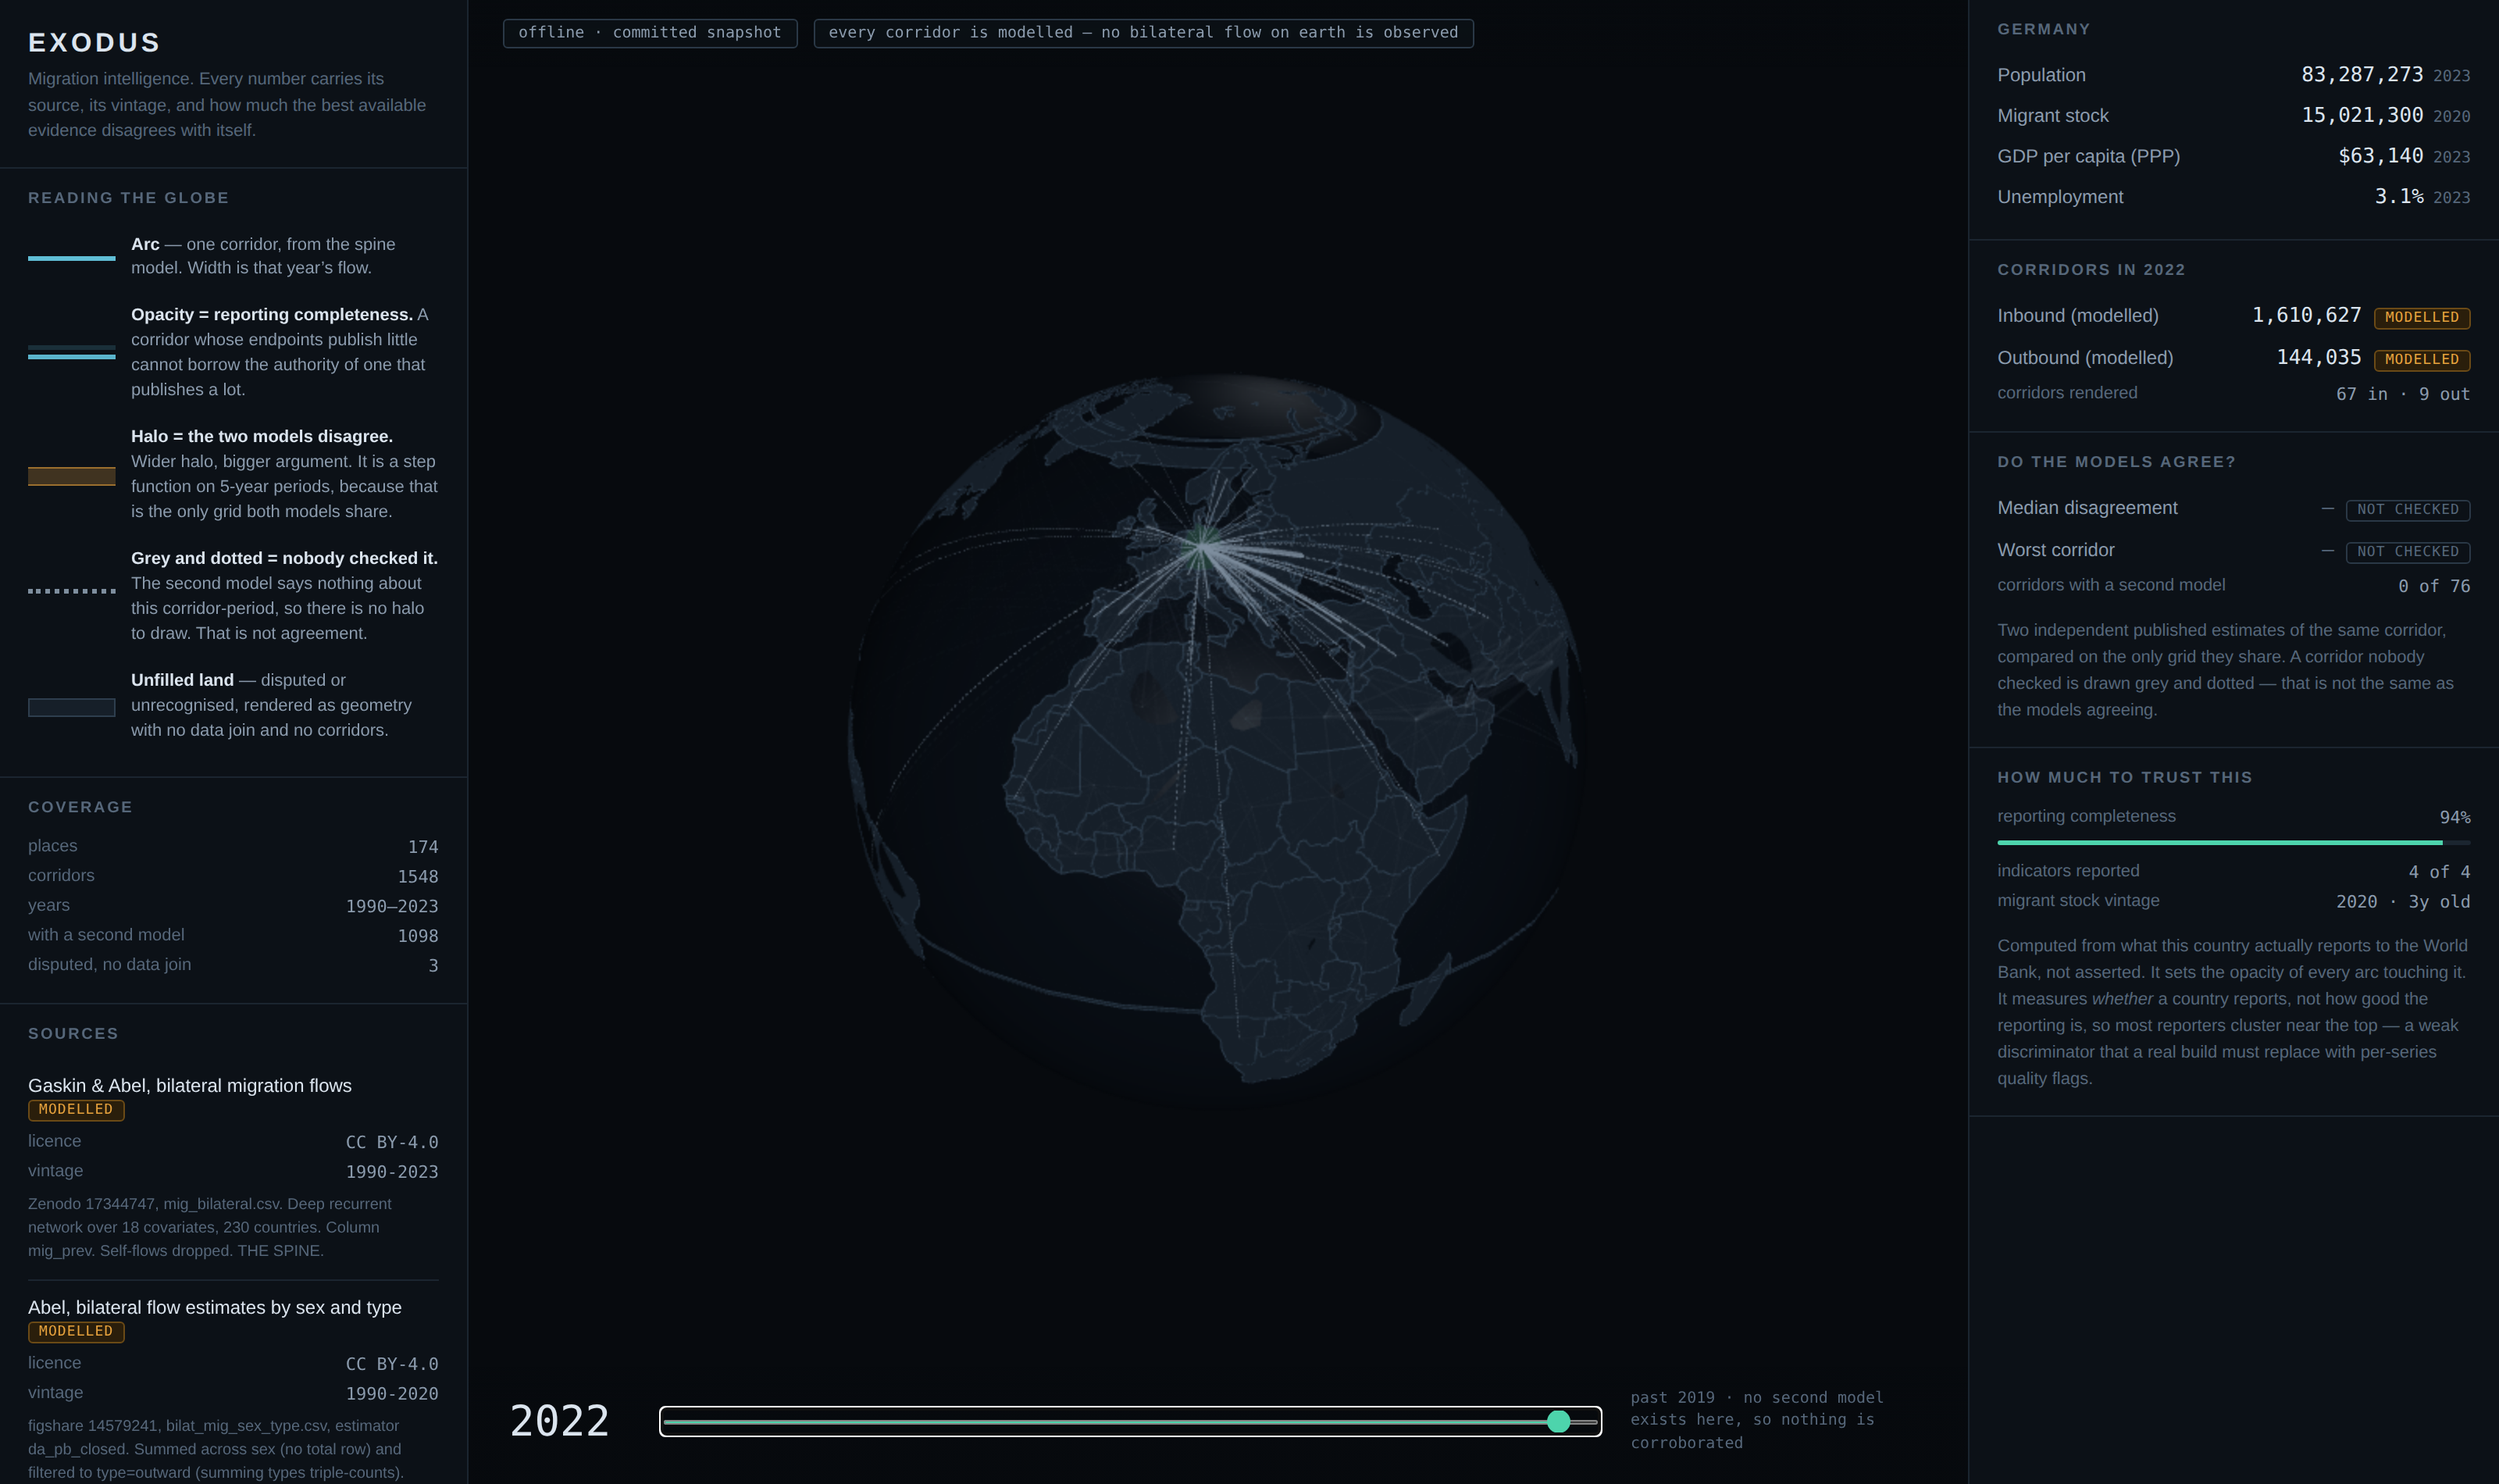
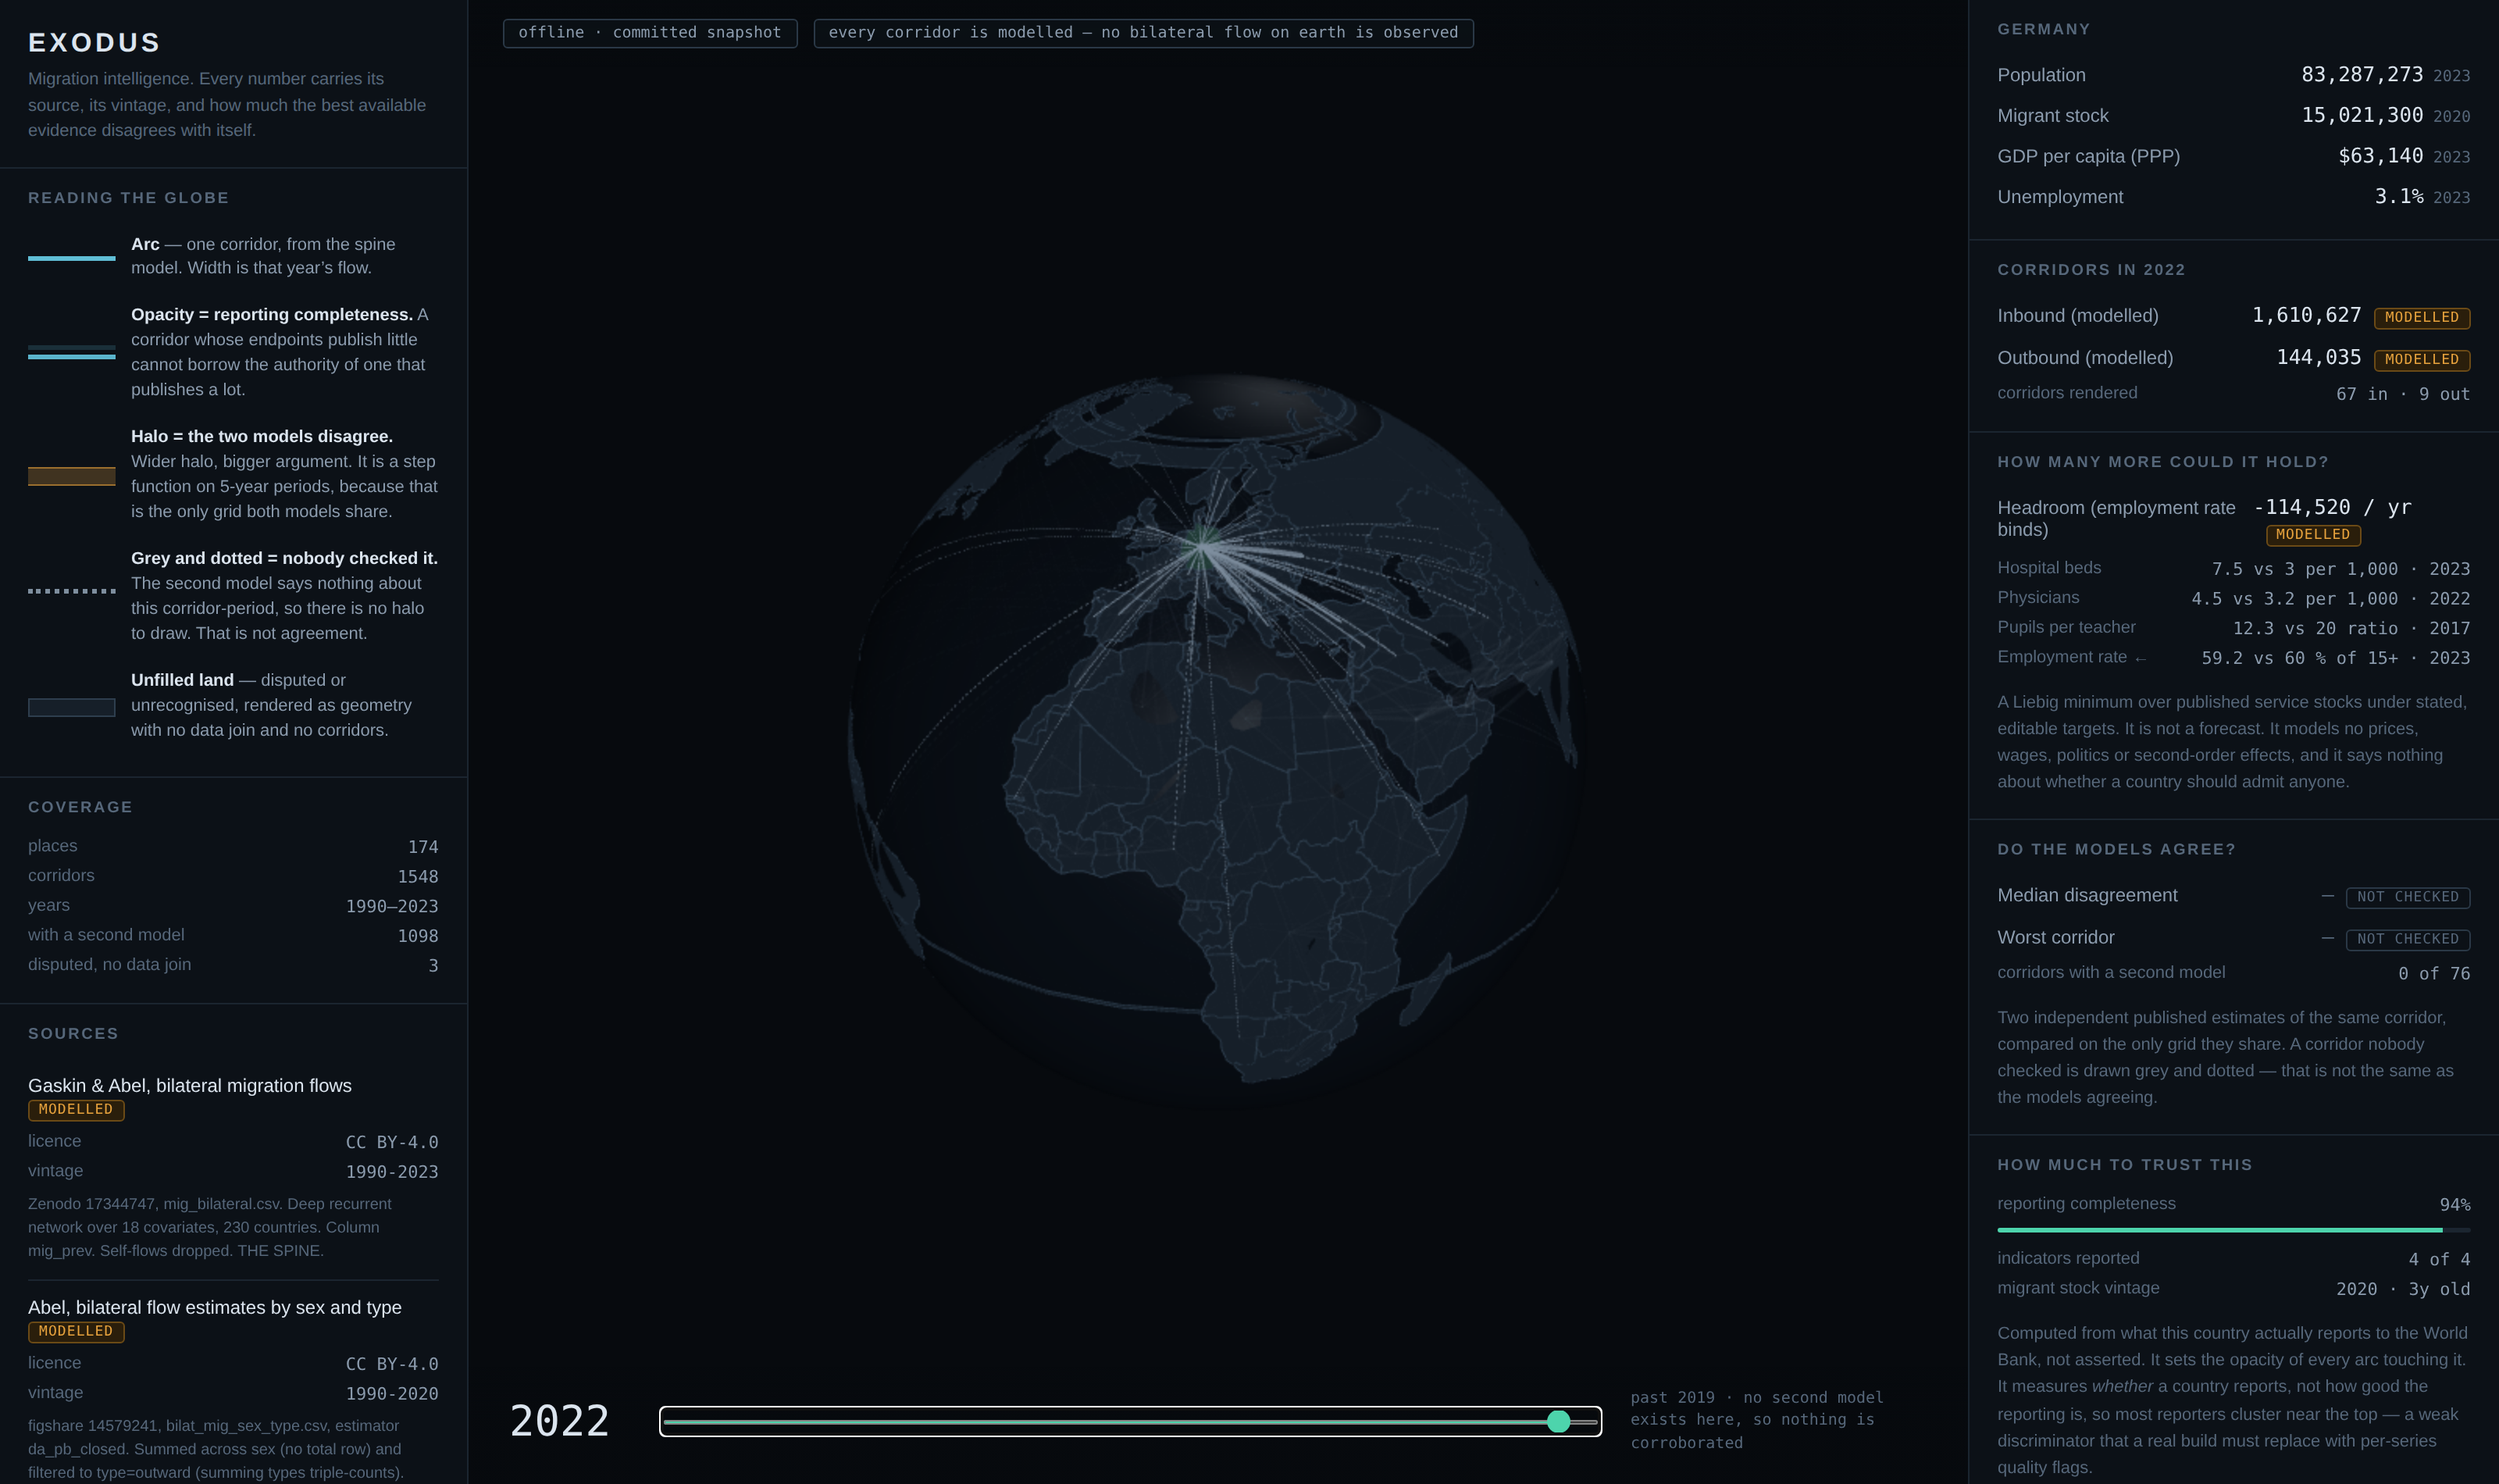
M3: service-stock headroom — the 'how many could it hold' model, on real data
Answers the original question without printing the single number that would be a
lie. A Liebig minimum over four published service stocks, always naming the
binding constraint, never collapsing to a scalar, and refusing outright when
fewer than three stocks are published rather than imputing the rest.

Stocks are real World Bank series, each carrying its own observation year:
hospital beds, physicians, pupil-teacher ratio and employment rate. For Germany
the binding constraint is the labour market at 59.2 percent against a 60 percent
target, not health or schooling, where it has large surpluses. The result is
negative, and a negative renders as the existing deficit it is rather than being
clamped to zero.

Five tests: refusal below three stocks, the binding indicator is always named,
a deficit stays negative, the minimum is taken rather than the mean, and every
stock used carries its year.

Claude-Session: https://claude.ai/code/session_01RBxFtqXgAfSVz9oKvnaHgw

Changed region(s): [[0.7812, 0.3105, 1.0, 0.7453], [0.8125, 0.8074, 1.0, 0.9937]]

diff --git a/apps/web/src/kernel/headroom.ts b/apps/web/src/kernel/headroom.ts
@@ -1,0 +1,96 @@
+/** "How much workforce can a country hold?"
+ *
+ *  There is no single number, and a product that prints one is lying. This returns a Liebig
+ *  minimum over service stocks, ALWAYS naming the binding constraint, never collapsing to a
+ *  scalar, and returning a typed refusal when the stocks are not published.
+ *
+ *  A negative value is a service deficit that already exists — not spare capacity.
+ */
+import type { Place } from '../types';
+
+export const HEADROOM_INDICATORS = ['housing_proxy', 'schooling', 'primary_care', 'labour'] as const;
+export type HeadroomIndicator = (typeof HEADROOM_INDICATORS)[number];
+
+export interface Assumption {
+  readonly id: HeadroomIndicator;
+  readonly label: string;
+  readonly unit: string;
+  /** The stock level the country is being held to. Editable: this is a policy choice. */
+  readonly target: number;
+  readonly horizonYears: number;
+  readonly source: string;
+  /** true when a HIGHER observed value means MORE capacity. */
+  readonly higherIsBetter: boolean;
+}
+
+export const DEFAULT_ASSUMPTIONS: readonly Assumption[] = [
+  { id: 'primary_care',  label: 'Hospital beds',   unit: 'per 1,000', target: 3.0,  horizonYears: 10, source: 'World Bank SH.MED.BEDS.ZS; target ≈ EU median', higherIsBetter: true },
+  { id: 'housing_proxy', label: 'Physicians',      unit: 'per 1,000', target: 3.2,  horizonYears: 10, source: 'World Bank SH.MED.PHYS.ZS; target ≈ EU median', higherIsBetter: true },
+  { id: 'schooling',     label: 'Pupils per teacher', unit: 'ratio',  target: 20,   horizonYears: 10, source: 'World Bank SE.PRM.ENRL.TC.ZS; target = UNESCO guideline', higherIsBetter: false },
+  { id: 'labour',        label: 'Employment rate', unit: '% of 15+',  target: 60,   horizonYears: 10, source: 'World Bank SL.EMP.TOTL.SP.ZS; target ≈ OECD median', higherIsBetter: true },
+];
+
+export interface IndicatorRow {
+  readonly id: HeadroomIndicator;
+  readonly label: string;
+  readonly observed: number | null;
+  readonly observedYear: number | null;
+  readonly target: number;
+  readonly unit: string;
+  /** Persons PER YEAR. Negative means the country is already below its own target. */
+  readonly headroomPersonsPerYear: number | null;
+  readonly source: string;
+}
+
+export type HeadroomResult =
+  | { kind: 'ok'; bindingIndicator: HeadroomIndicator; bindingLabel: string;
+      headroomPersonsPerYear: number; perIndicator: IndicatorRow[]; caveat: string }
+  | { kind: 'refusal'; code: 'NoServiceStockData'; reason: string; perIndicator: IndicatorRow[] };
+
+function rowFor(a: Assumption, place: Place): IndicatorRow {
+  const pick = (): [number | null, number | null] => {
+    switch (a.id) {
+      case 'primary_care':  return [place.beds ?? null, place.bedsYear ?? null];
+      case 'housing_proxy': return [place.phys ?? null, place.physYear ?? null];
+      case 'schooling':     return [place.ptr ?? null, place.ptrYear ?? null];
+      case 'labour':        return [place.emp ?? null, place.empYear ?? null];
+    }
+  };
+  const [observed, observedYear] = pick();
+  let h: number | null = null;
+  if (observed != null && place.pop != null && place.pop > 0) {
+    // ratio = how far the observed stock exceeds the target, in the direction that means
+    // "more capacity". Headroom = (ratio − 1) · population / horizon, in persons per year.
+    const ratio = a.higherIsBetter ? observed / a.target : a.target / observed;
+    h = ((ratio - 1) * place.pop) / a.horizonYears;
+  }
+  return { id: a.id, label: a.label, observed, observedYear, target: a.target, unit: a.unit,
+           headroomPersonsPerYear: h == null ? null : Math.round(h), source: a.source };
+}
+
+export function headroom(place: Place, assumptions: readonly Assumption[] = DEFAULT_ASSUMPTIONS): HeadroomResult {
+  const perIndicator = assumptions.map((a) => rowFor(a, place));
+  const usable = perIndicator.filter((r) => r.headroomPersonsPerYear != null);
+
+  // A headroom figure from one stock is not a headroom figure. Require at least three.
+  if (usable.length < 3) {
+    return {
+      kind: 'refusal', code: 'NoServiceStockData', perIndicator,
+      reason: `${place.name} publishes ${usable.length} of ${assumptions.length} service stocks. `
+        + `A binding constraint cannot be identified from fewer than three, and imputing the `
+        + `missing ones would invent the answer.`,
+    };
+  }
+  const binding = usable.reduce((a, b) =>
+    (a.headroomPersonsPerYear! <= b.headroomPersonsPerYear! ? a : b));
+  return {
+    kind: 'ok',
+    bindingIndicator: binding.id,
+    bindingLabel: binding.label,
+    headroomPersonsPerYear: binding.headroomPersonsPerYear!,
+    perIndicator,
+    caveat: 'A Liebig minimum over published service stocks under stated, editable targets. '
+      + 'It is not a forecast. It models no prices, wages, politics or second-order effects, '
+      + 'and it says nothing about whether a country should admit anyone.',
+  };
+}

diff --git a/apps/web/src/kernel/headroom.test.ts b/apps/web/src/kernel/headroom.test.ts
@@ -1,0 +1,60 @@
+import { describe, expect, it } from 'vitest';
+import { DEFAULT_ASSUMPTIONS, headroom } from './headroom';
+import type { Place } from '../types';
+
+const base: Place = {
+  iso3: 'TST', name: 'Testland', centroid: [0, 0],
+  pop: 10_000_000, popYear: 2023, stock: null, stockYear: null,
+  unemp: null, unempYear: null, gdppc: null, gdppcYear: null,
+  coverage: 0.5, indicatorsPresent: 2,
+  beds: null, bedsYear: null, phys: null, physYear: null,
+  emp: null, empYear: null, ptr: null, ptrYear: null,
+};
+
+describe('headroom refuses rather than inventing', () => {
+  it('refuses when fewer than three service stocks are published', () => {
+    const r = headroom({ ...base, beds: 3.0, bedsYear: 2021 });
+    expect(r.kind).toBe('refusal');
+    if (r.kind === 'refusal') {
+      expect(r.code).toBe('NoServiceStockData');
+      expect(r.reason).toMatch(/would invent the answer/);
+      expect(r.perIndicator).toHaveLength(DEFAULT_ASSUMPTIONS.length);
+    }
+  });
+
+  it('never returns a bare scalar: the binding indicator is always named', () => {
+    const r = headroom({ ...base, beds: 6.0, bedsYear: 2021, phys: 4.0, physYear: 2022, emp: 66, empYear: 2023 });
+    expect(r.kind).toBe('ok');
+    if (r.kind !== 'ok') return;
+    expect(r.bindingIndicator).toBeTruthy();
+    expect(r.bindingLabel).toBeTruthy();
+    expect(r.perIndicator.length).toBeGreaterThanOrEqual(3);
+    expect(r.caveat).toMatch(/not a forecast/i);
+  });
+
+  it('reports a deficit as negative rather than clamping it to zero', () => {
+    // Every stock below target: the country is already short, and that must show.
+    const r = headroom({ ...base, beds: 0.5, bedsYear: 2021, phys: 0.3, physYear: 2022, emp: 35, empYear: 2023 });
+    expect(r.kind).toBe('ok');
+    if (r.kind !== 'ok') return;
+    expect(r.headroomPersonsPerYear).toBeLessThan(0);
+  });
+
+  it('picks the binding constraint, i.e. the minimum, not the average', () => {
+    const r = headroom({ ...base, beds: 9.0, bedsYear: 2021, phys: 9.0, physYear: 2022, emp: 40, empYear: 2023 });
+    expect(r.kind).toBe('ok');
+    if (r.kind !== 'ok') return;
+    expect(r.bindingIndicator).toBe('labour');     // employment is the scarce one here
+    const all = r.perIndicator.filter((x) => x.headroomPersonsPerYear != null)
+      .map((x) => x.headroomPersonsPerYear!);
+    expect(r.headroomPersonsPerYear).toBe(Math.min(...all));
+  });
+
+  it('carries the observation year for every stock it uses', () => {
+    const r = headroom({ ...base, beds: 6, bedsYear: 2021, phys: 4, physYear: 2022, emp: 66, empYear: 2023 });
+    if (r.kind !== 'ok') throw new Error();
+    for (const row of r.perIndicator) {
+      if (row.observed != null) expect(row.observedYear).not.toBeNull();
+    }
+  });
+});

diff --git a/apps/web/src/App.tsx b/apps/web/src/App.tsx
@@ -2,6 +2,7 @@ import { useEffect, useMemo } from 'react';
 import { Globe } from './Globe';
 import { useStore } from './state';
 import { periodIndex } from './types';
+import { headroom } from './kernel/headroom';
 import type { EstimateKind, Place } from './types';
 
 const nf = new Intl.NumberFormat('en-US');
@@ -113,6 +114,51 @@ function Inspector() {
           </p>
         )}
         <div className="kv"><span className="k">corridors rendered</span><span className="v">{flows!.nIn} in · {flows!.nOut} out</span></div>
+      </div>
+      <div className="sec">
+        <h2>How many more could it hold?</h2>
+        {(() => {
+          const h = headroom(p);
+          if (h.kind === 'refusal') {
+            return (
+              <>
+                <div className="figure">
+                  <span className="lbl">Binding constraint</span>
+                  <span><span className="val absent">—</span>
+                    <span className="badge absent" style={{ marginLeft: 8 }}>can&rsquo;t say</span></span>
+                </div>
+                <p style={{ fontSize: 11, color: 'var(--text-muted)', lineHeight: 1.55, margin: '6px 0 10px' }}>
+                  {h.reason}
+                </p>
+                {h.perIndicator.map((row) => (
+                  <div className="kv" key={row.id}>
+                    <span className="k">{row.label}</span>
+                    <span className="v">{row.observed == null ? '— not published' : `${row.observed.toFixed(1)} ${row.unit}`}</span>
+                  </div>
+                ))}
+              </>
+            );
+          }
+          return (
+            <>
+              <Figure label={`Headroom (${h.bindingLabel.toLowerCase()} binds)`} kind="modelled"
+                      value={`${nf.format(h.headroomPersonsPerYear)} / yr`} />
+              {h.perIndicator.map((row) => (
+                <div className="kv" key={row.id}>
+                  <span className="k">{row.label}{row.id === h.bindingIndicator ? ' ←' : ''}</span>
+                  <span className="v">
+                    {row.observed == null ? '— not published'
+                      : `${row.observed.toFixed(1)} vs ${row.target} ${row.unit}`}
+                    {row.observedYear ? ` · ${row.observedYear}` : ''}
+                  </span>
+                </div>
+              ))}
+              <p style={{ fontSize: 11, color: 'var(--text-muted)', lineHeight: 1.55, marginBottom: 0 }}>
+                {h.caveat}
+              </p>
+            </>
+          );
+        })()}
       </div>
       <div className="sec">
         <h2>Do the models agree?</h2>

diff --git a/apps/web/src/types.ts b/apps/web/src/types.ts
@@ -11,6 +11,11 @@ export interface Place {
   /** Real: share of indicators this country reports, discounted by staleness. Drives arc opacity. */
   coverage: number;
   indicatorsPresent: number;
+  /** Service stocks for the headroom model, each with its own observation year. */
+  beds: number | null; bedsYear: number | null;
+  phys: number | null; physYear: number | null;
+  emp: number | null; empYear: number | null;
+  ptr: number | null; ptrYear: number | null;
 }
 
 export interface Corridor {
